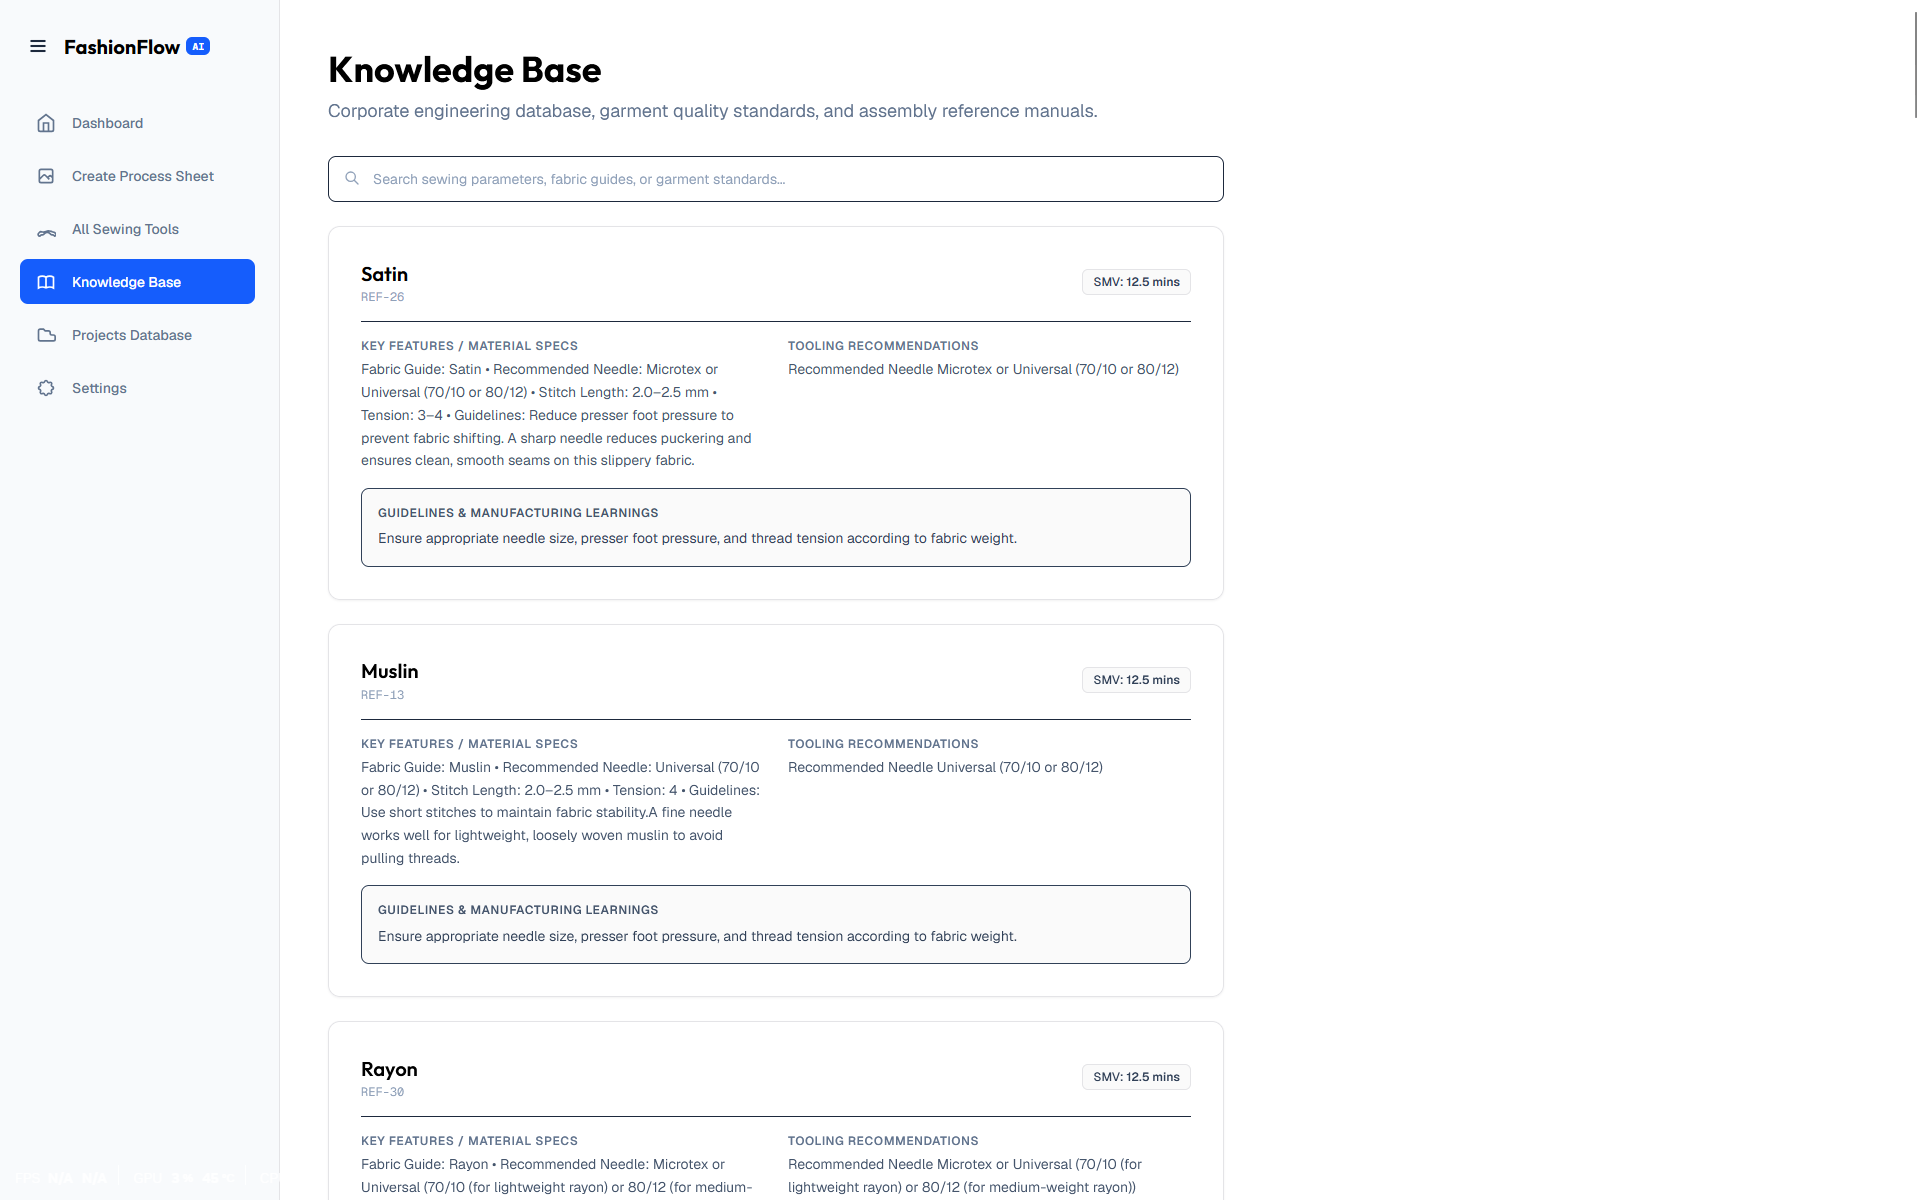
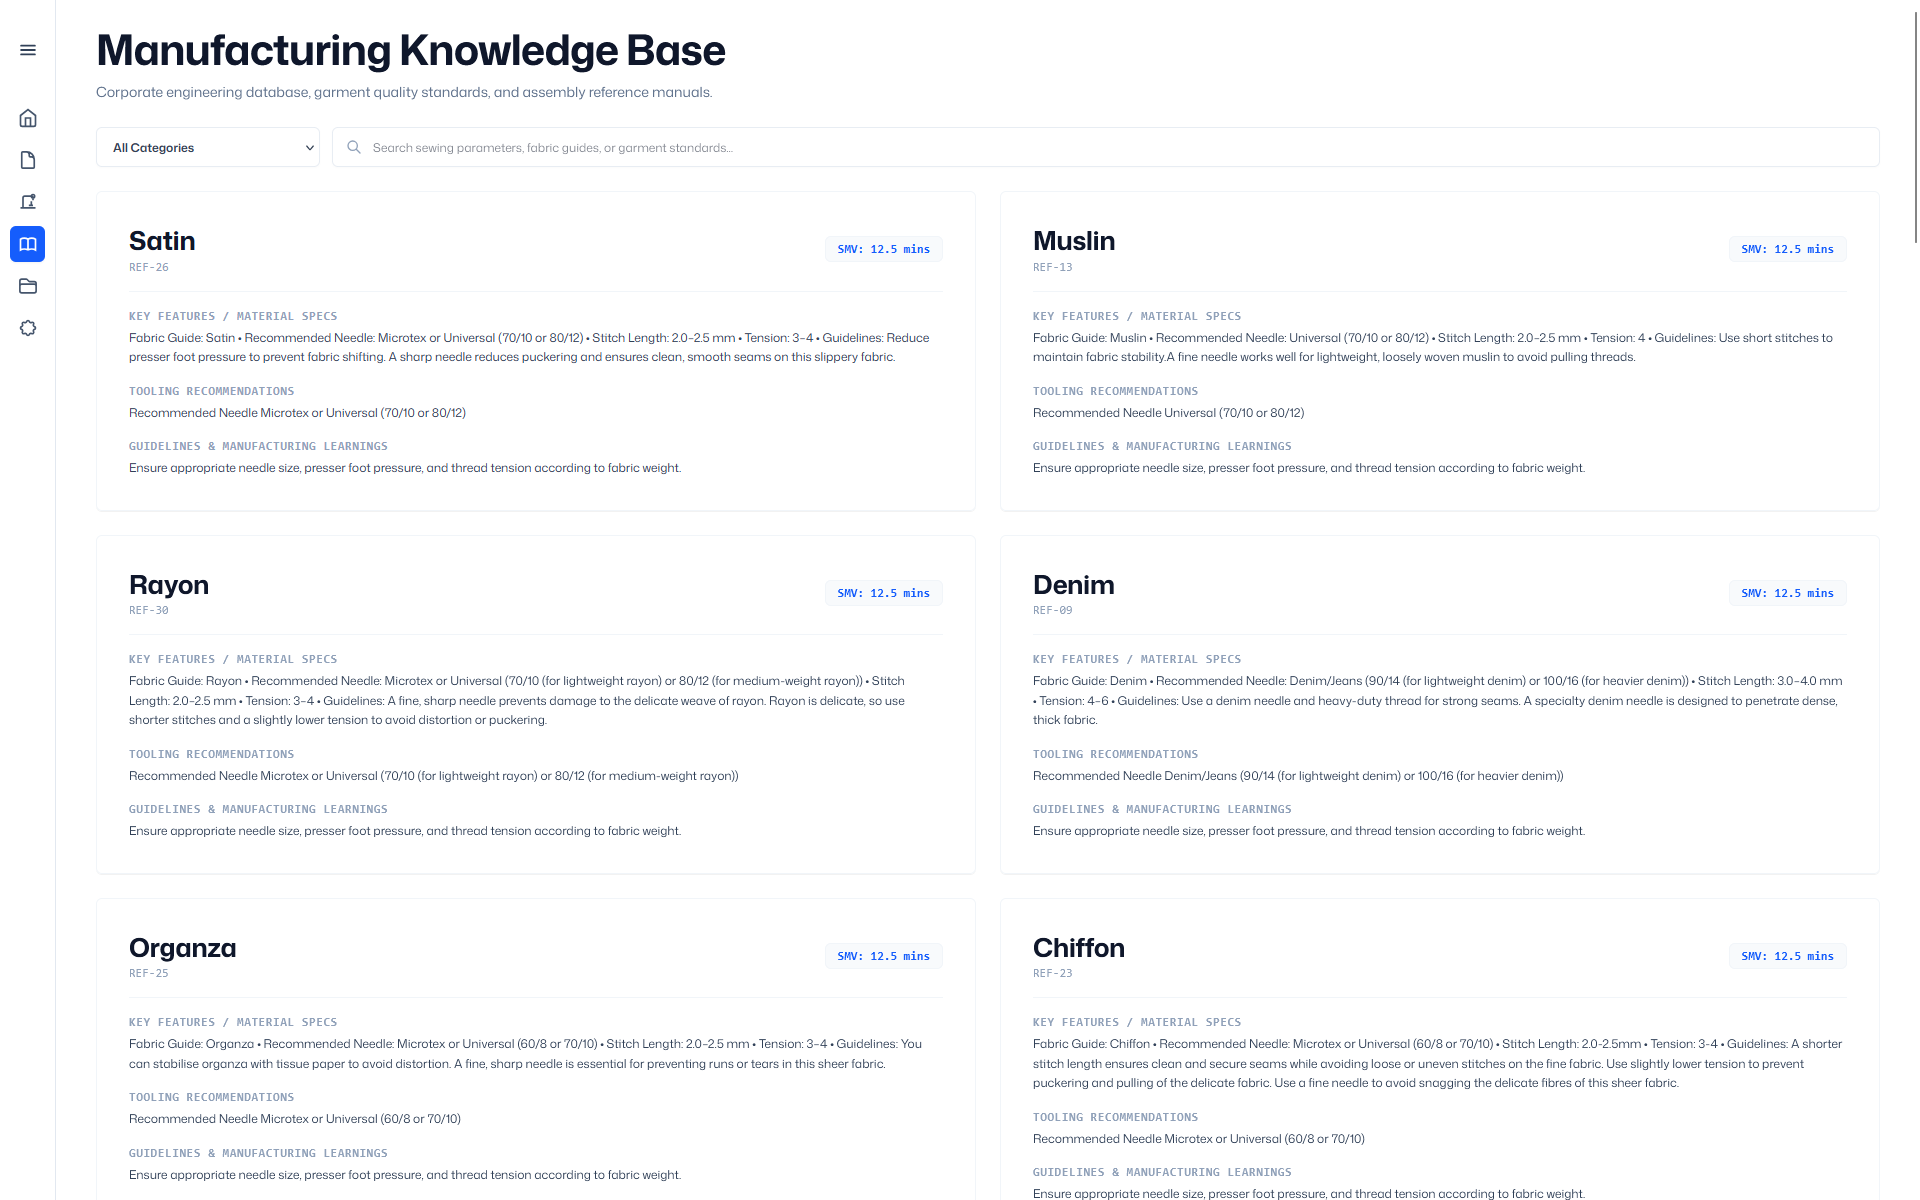
Updated README.md

diff --git a/README.md b/README.md
@@ -13,15 +13,15 @@
 
 | System Engineering Dashboard | Process Sheet Studio & Parameter Form |
 |:-:|:-:|
-| ![System Engineering Dashboard](image/Dashboard.png) | ![Originality Check & Quiz Form](image/CreateProcessSheet.png) |
+| ![System Engineering Dashboard](image/Dashboard.png) | ![Originality Check & Quiz Form](image/Create2.png) |
 
 | Step-by-Step Sewing Flow & Specs | Saved Active Projects History |
 |:-:|:-:|
-| ![Process Specification Sheet](image/CreateProcessSheet2.png) | ![Saved Projects Database](image/ActiveProjects.png) |
+| ![Process Specification Sheet](image/Create3.png) | ![Saved Projects Database](image/ProjectsHistory.png) |
 
 | Manufacturing Knowledge Base | Sewing Machinery Catalog |
 |:-:|:-:|
-| ![Pattern Originality Knowledge Base](image/KnowledgeBase.png) | ![All Juki Machinery Catalog](image/SewingToolsCatalog.png) |
+| ![Pattern Originality Knowledge Base](image/KnowledgeBase.png) | ![All Juki Machinery Catalog](image/MachineryCatalog.png) |
 
 ---
 